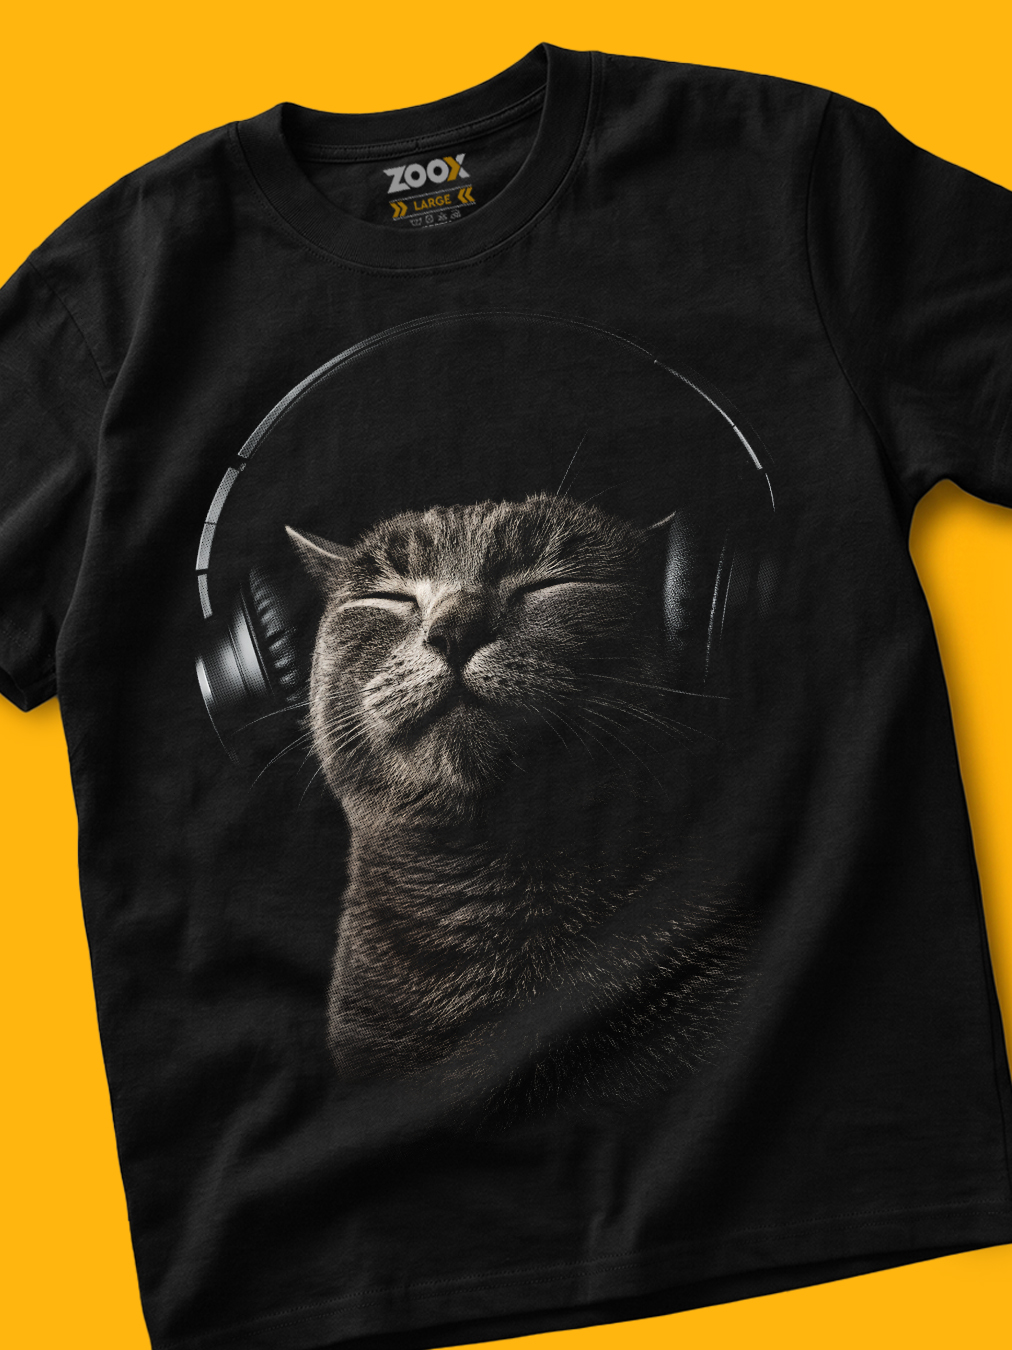
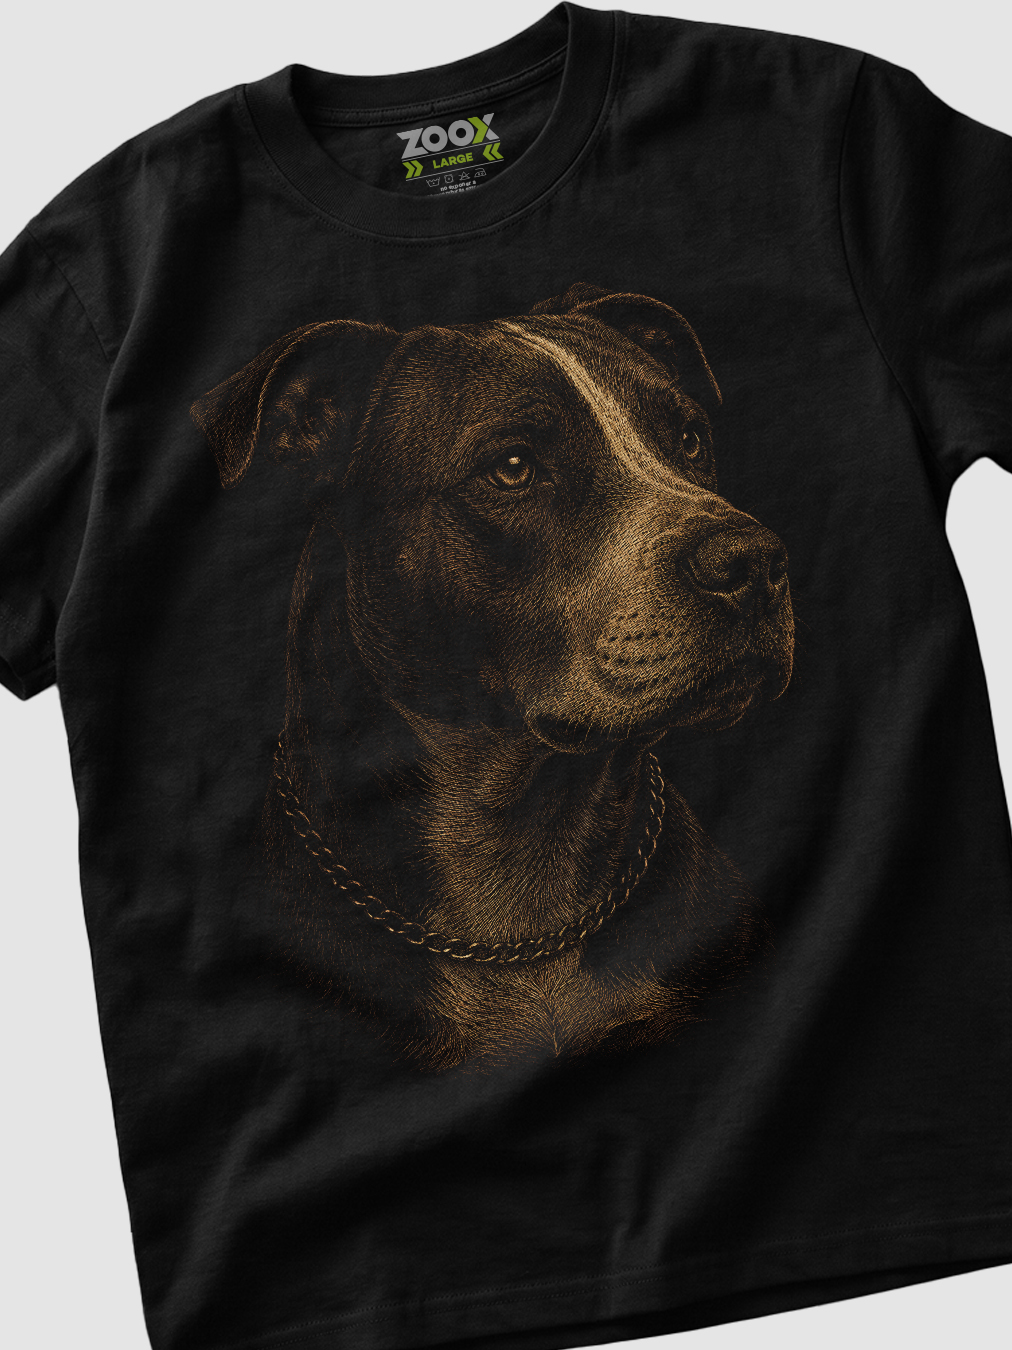
arts camb

diff --git a/zooxarts/index.html b/zooxarts/index.html
@@ -319,9 +319,9 @@ h2.is-visible em{background-size:100% 6px!important}
 </div>
 
 <div class="polo-grid">
-  <div class="polo-card" data-name="Poster A4 - 21x29.7 cm" data-price="89" data-type="poster"><div class="img-wrap"><img src="images/posters/productos/poster1.png" alt="Poster A4"></div><div class="info"><span class="marca">POSTERS ZOOX </span><h4>POSTER A4</h4><p>Base Celtex + Cristal líquido </p><div class="price sm">s/89</div></div></div>
-  <div class="polo-card" data-name="Poster A3 - 29.7x42 cm" data-price="109" data-type="poster"><div class="img-wrap"><img src="images/posters/productos/poster2.png" alt="Poster A3"></div><div class="info"><span class="marca">POSTERS ZOOX </span><h4>POSTER A3</h4><p>Base Celtex + Cristal líquido </p><div class="price sm">s/109</div></div></div>
-  <div class="polo-card" data-name="Poster A2 - 42x59.4 cm" data-price="139" data-type="poster"><div class="img-wrap"><img src="images/posters/productos/poster3.png" alt="Poster A2"></div><div class="info"><span class="marca">POSTERS ZOOX</span><h4>POSTER A2</h4><p>Base Celtex + Cristal líquido </p><div class="price sm">s/139</div></div></div>
+  <div class="polo-card" data-name="Poster A4 - 21x30 cm" data-price="89" data-type="poster"><div class="img-wrap"><img src="images/posters/productos/poster1.png" alt="Poster A4"></div><div class="info"><span class="marca">FORMATO A4 - 21 x 30 cm </span><h4>DETALLE PERSONAL</h4><p>Un retrato único para darle un toque especial a tus rincones favoritos.</p><div class="price sm">s/89</div></div></div>
+  <div class="polo-card" data-name="Poster A3 - 30x42 cm" data-price="109" data-type="poster"><div class="img-wrap"><img src="images/posters/productos/poster2.png" alt="Poster A3"></div><div class="info"><span class="marca">FORMATO A3 - 30 x 42 cm </span><h4>REGALO CON SIGNIFICADO</h4><p>Transforma a tu mascota en una pieza artística para regalar o conservar.</p><div class="price sm">s/109</div></div></div>
+  <div class="polo-card" data-name="Poster A2 - 42x60 cm" data-price="139" data-type="poster"><div class="img-wrap"><img src="images/posters/productos/poster3.png" alt="Poster A2"></div><div class="info"><span class="marca">FORMATO A2 - 42 x 60 cm </span><h4>ARTE QUE DESTACA</h4><p>Un gran formato que convierte a tu mascota en el rey de tus espacios.</p><div class="price sm">s/139</div></div></div>
 </div>
 <div class="zoox-carousel-wrap">
   
